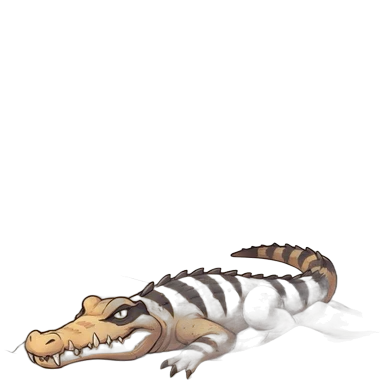
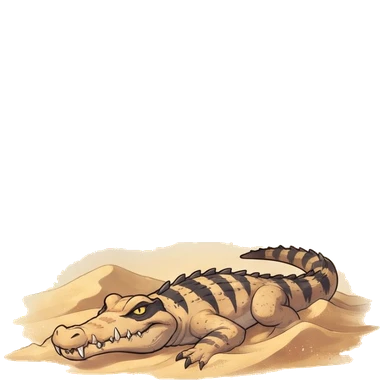
Art: keep pale parts from vanishing into the background
- Battle art and trainer portraits get a thin dark rim at draw time, so white or
  pale creatures and clothes stand out on snow, sky and sand backdrops
- Kai's boots restored (the old cut removed them along with his stand)
- Sandcroc re-cut solid from its source (it was half see-through); a few other
  creatures with soft see-through patches hardened

Claude-Session: https://claude.ai/code/session_01G6QFYzVJELtsUznGLjxJ3k

Changed region(s): [[0.0, 0.625, 1.0, 1.0]]

diff --git a/static/js/art.js b/static/js/art.js
@@ -599,6 +599,23 @@ export function loadCustomArt() {
     })))))).catch(() => {});
 }
 export const hasCustomArt = (sp) => !!CUSTOM[sp];
+// A thin dark rim around hand-drawn art, so pale or white parts never melt into a light
+// battle backdrop (snow, sky, sand). Art that already has a dark outline barely changes.
+function addRim(c, w = 3, color = 'rgba(24, 22, 40, 0.92)') {
+  const t = mk(c.width, c.height), g = t.getContext('2d');
+  for (let dy = -w; dy <= w; dy++) for (let dx = -w; dx <= w; dx++) {
+    if (dx * dx + dy * dy > w * w + 1 || (!dx && !dy)) continue;
+    g.drawImage(c, dx, dy);
+  }
+  g.globalCompositeOperation = 'source-in';
+  g.fillStyle = color; g.fillRect(0, 0, t.width, t.height);
+  g.globalCompositeOperation = 'source-over';
+  g.drawImage(c, 0, 0);
+  const cg = c.getContext('2d');
+  cg.clearRect(0, 0, c.width, c.height); cg.drawImage(t, 0, 0);
+  return c;
+}
+
 export function creature(sp, size = 56, back = false) {
   const key = `c:${sp}:${size}:${back}`;
   if (cache.has(key)) return cache.get(key);
@@ -611,7 +628,8 @@ export function creature(sp, size = 56, back = false) {
     const st = (s.art && s.art.stage) || s.stage || 1;
     const k = st === 1 ? 0.82 : st === 2 ? 0.92 : 1;
     const d = n * k;
-    g.drawImage(art, (n - d) / 2, n - d, d, d);
+    g.drawImage(art, (n - d) / 2, n - d - 3, d, d);
+    addRim(c);
     c.hd = true;
     cache.set(key, c);
     return c;
@@ -927,7 +945,8 @@ export function trainerPortrait(lookId, pose = 'ready') {
   if (art) {
     const R = 6, c = mk(56 * R, 76 * R), g = c.getContext('2d');
     g.imageSmoothingEnabled = true; g.imageSmoothingQuality = 'high';
-    g.drawImage(art, 0, 0, c.width, c.height);
+    g.drawImage(art, 3, 0, c.width - 6, c.height - 3);
+    addRim(c);
     c.hd = true;
     cache.set(key, c);
     return c;

diff --git a/static/js/screens.js b/static/js/screens.js
@@ -453,7 +453,7 @@ class Title {
     drawCreature(g, sp, 56, 176, 74 + Math.round(Math.sin(this.t / 15) * 2));
     g.drawImage(person('player', 'down', 0), 20, 82, 40, 48);
     this.menu.draw(g);
-    text(g, 'v3.4', 236, 150, '#ffffffcc', null, FONT_SMALL, 'right');
+    text(g, 'v3.5', 236, 150, '#ffffffcc', null, FONT_SMALL, 'right');
   }
 }
 export function titleScreen(items) { return open(new Title(items)); }

diff --git a/static/sw.js b/static/sw.js
@@ -1,6 +1,6 @@
 // Offline support: cache the whole game so it runs with no connection once
 // installed. Bump VERSION whenever game files change.
-const VERSION = 'wildbound-v33';
+const VERSION = 'wildbound-v34';
 const FILES = [
   '/', '/static/style.css', '/manifest.webmanifest',
   '/static/fonts/pixelify-sans-latin-400-normal.woff2', '/static/fonts/pixelify-sans-latin-600-normal.woff2',
